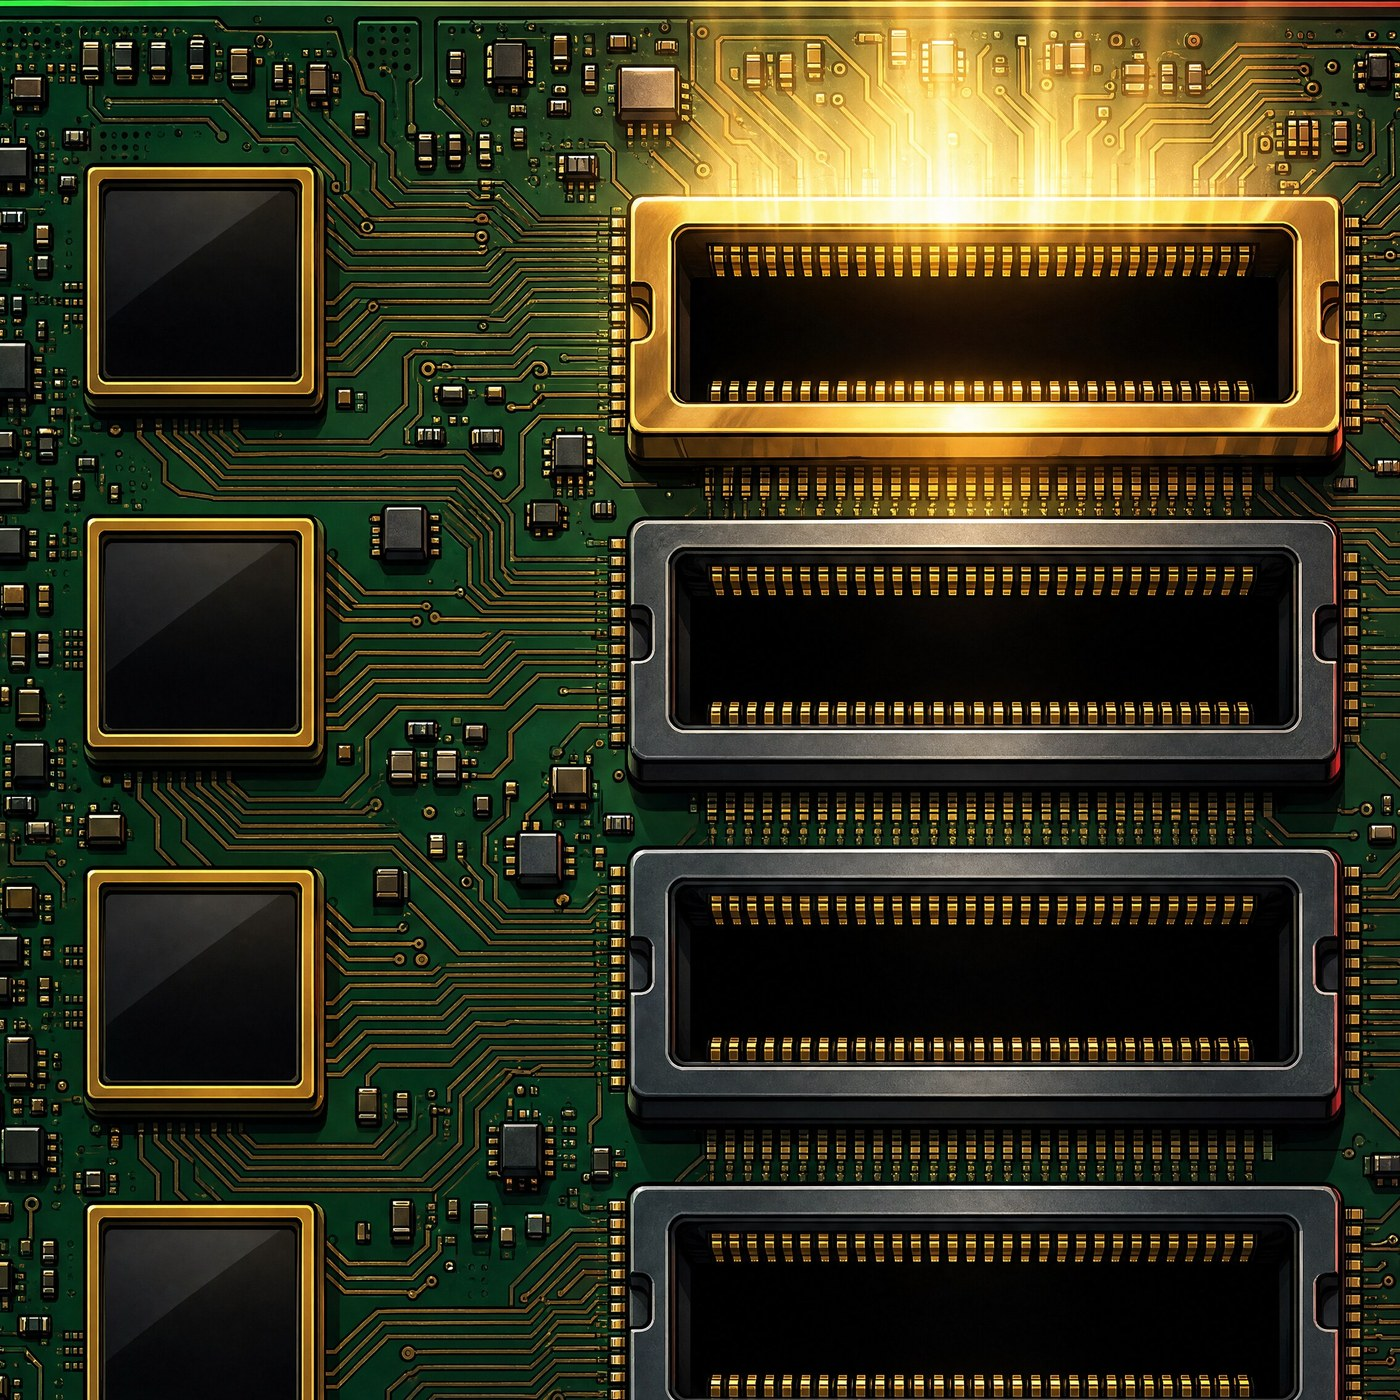
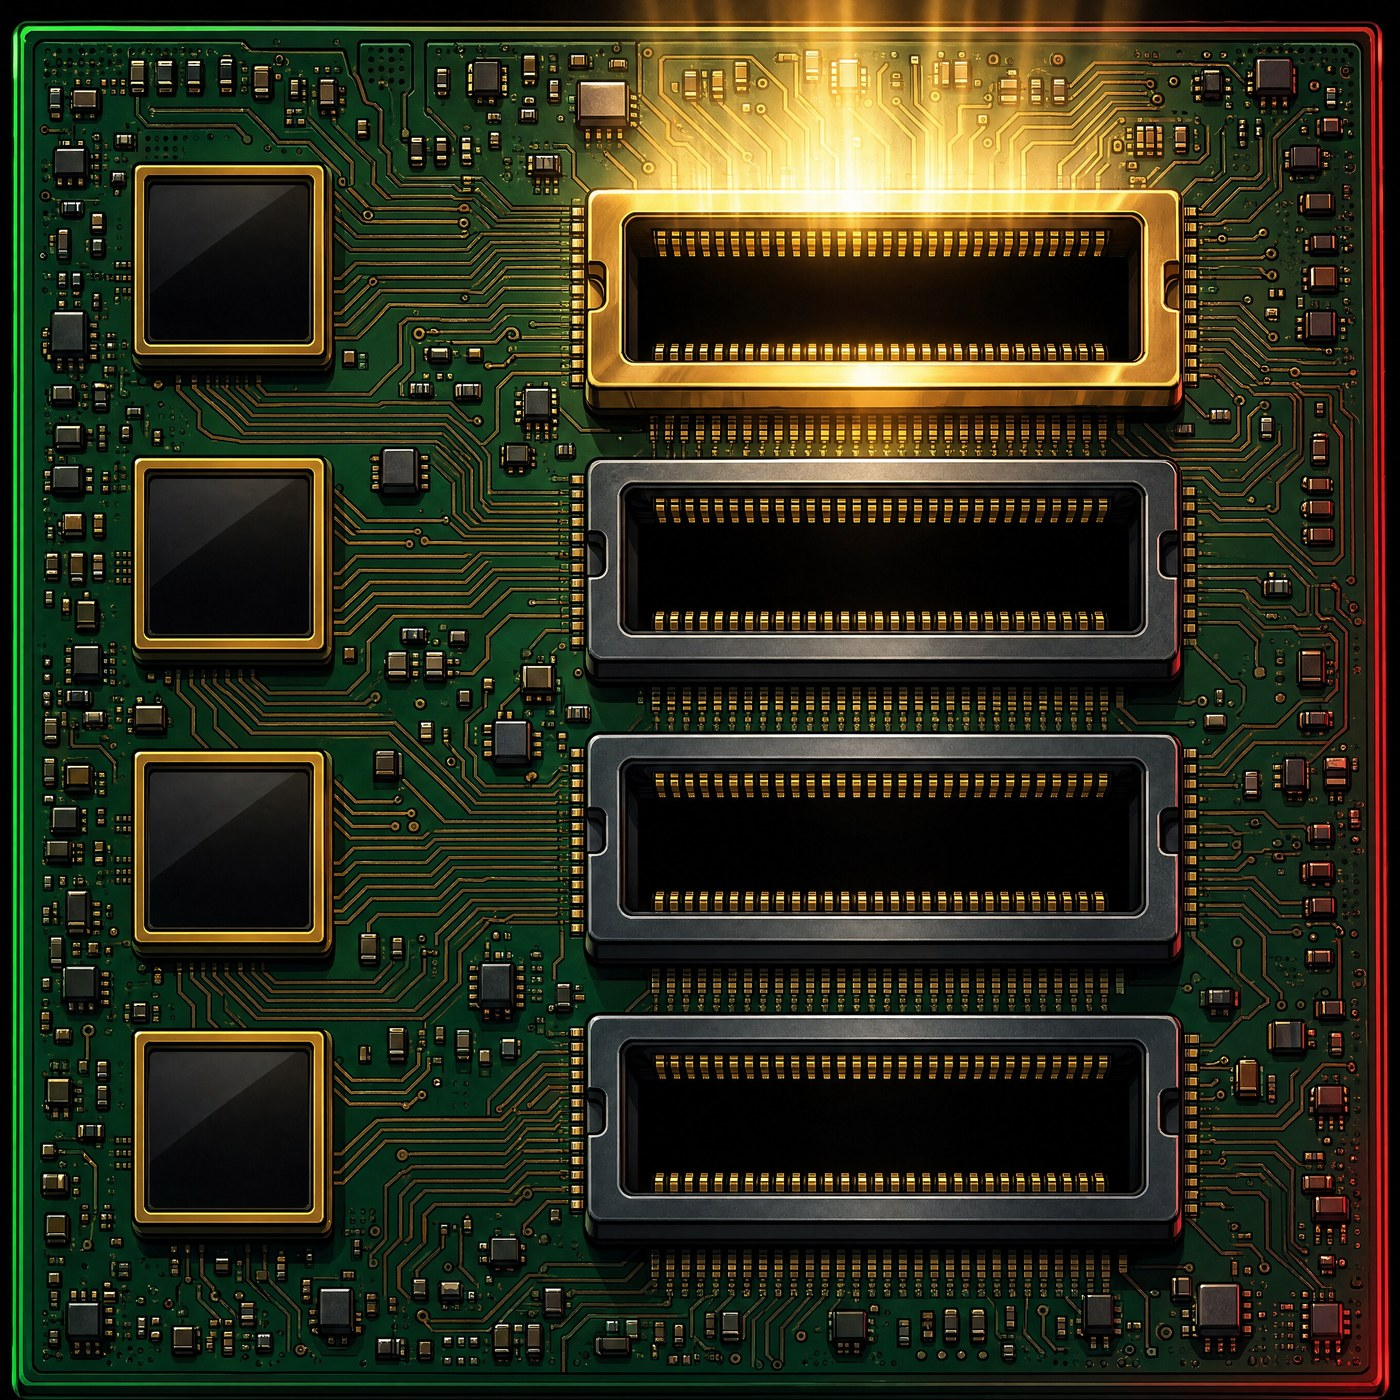
H28: helpers' work in progress
Claude-Session: https://claude.ai/code/session_01KWvAje4hnkBCpPe6R47PoY

diff --git a/ez/tools/concepts/worlds/comic/story/h/chain/_ch.js b/ez/tools/concepts/worlds/comic/story/h/chain/_ch.js
@@ -1,6 +1,7 @@
 /* Round H28 · chain: "Every round so far" as a blockchain (mockups over the built v46-live-x2plus.html).
    The story chain of the page: the models live in chips (Meet the models) -> the record is a ledger -> a chain of blocks, one block per round.
-   window.__CH = 'A' the hash chain (blocks on a board, joined by gold links, the chain snakes so every link is a short one)
+   window.__CH = 'E' A's chain with D's open block on top (the two parts combined)
+                 'A' the hash chain (blocks on a board, joined by gold links, the chain snakes so every link is a short one)
                  'B' the block explorer (newest first, the way crypto people already read a chain: height, contents, hash)
                  'C' the bus (one gold line down the page; every block hangs on it, the hash it hands to the next is printed on the line)
                  'D' the open block (the stack grows: block 81 is already open on top and already points at block 80; sealed blocks below)
@@ -56,7 +57,7 @@ const ht=n=>`<span class="cz-ht"><i>Block</i><b>${n}</b></span>`;
 function A_it(r,hero){return `<span class="cz-blk cza-blk"><span class="cza-bar">${ht(r.n)}${hx(HASH[r.n])}</span>${pic(hero?big(r):tile(r.n))}
   <span class="cz-tx">${line1(r,true)}${winner(r)}${hero?`<span class="cza-prev"><i>Prev</i>${hx(PREV[r.n],'cz-hx-p')}<i class="cza-pt">= block ${r.n-1}</i></span>`:''}</span></span>`}
 /* ================= B · the block explorer ================= */
-function B_hero(r){return `<span class="cz-blk czb-hero"><span class="czb-hd"><span class="czb-lab"><i class="czb-dot"></i>Latest block</span><span class="czb-when">Sealed<span class="czb-atc"> at the close</span> · ${esc(md(r.resolves))}</span></span>
+function B_hero(r){return `<span class="cz-blk czb-hero"><span class="czb-hd"><span class="czb-lab"><i class="czb-dot"></i>Latest block</span><span class="czb-when">Graded<span class="czb-atc"> at the close</span> · ${esc(md(r.resolves))}</span></span>
   <span class="czb-body">${pic(big(r),'czb-pic')}<span class="cz-tx"><span class="czb-big">${ht(r.n)}</span>${line1(r,true)}${winner(r)}
   <span class="czb-kv"><i>Hash</i><code class="cz-hx czb-full"><span>0x${HASH[r.n].slice(0,32)}</span><span>${HASH[r.n].slice(32)}</span></code></span>
   <span class="czb-kv"><i>Prev</i>${hx(PREV[r.n],'cz-hx-p')}<em class="czb-to">block ${r.n-1} ↓</em></span></span></span></span>`}
@@ -65,22 +66,22 @@ function B_it(r){return `<span class="cz-blk czb-row"><span class="czb-n">${r.n}
 function C_it(r,hero){return `<span class="cz-blk czc-blk">${pic(hero?big(r):tile(r.n),'czc-pic')}<span class="cz-tx"><span class="czc-top">${ht(r.n)}<span class="czc-d">${esc(md(r.resolves))}</span></span>${line1(r,true)}${winner(r)}${hero?`<span class="czc-hh"><i>Hash</i>${hx(HASH[r.n])}</span>`:''}</span></span>`}
 /* ================= D · the open block on top of the stack ================= */
 function D_open(){if(!OPEN)return '';const lg=logo(OPEN.ticker);
-  return `<div class="czd-open" aria-label="Block ${OPEN.n} is open: round ${esc(OPEN.n)}, ${esc(OPEN.co)}. Calls due ${esc(md(OPEN.called))}, sealed at the close${OPEN.resolves?' on '+esc(md(OPEN.resolves)):''}. It already points at block ${HERO.n}."><span class="czd-ob">
+  return `<div class="czd-open" aria-label="Block ${OPEN.n} is open: round ${esc(OPEN.n)}, ${esc(OPEN.co)}. Calls due ${esc(md(OPEN.called))}, graded at the close${OPEN.resolves?' on '+esc(md(OPEN.resolves)):''}. It already points at block ${HERO.n}."><span class="czd-ob">
   <span class="czd-obar">${ht(OPEN.n)}<span class="czd-state"><i class="czd-led"></i>Open</span></span>
-  <span class="czd-obody">${lg}<span class="czd-oco"><b>${esc(OPEN.co)}</b><span>Calls due ${esc(md(OPEN.called))} · sealed at the close${OPEN.resolves?' '+esc(md(OPEN.resolves)):''}</span></span>
-  <span class="czd-slots">${ORDER.map(m=>`<span class="czd-slot">${mark(m)}<b>?</b></span>`).join('')}</span></span>
+  <span class="czd-obody">${lg}<span class="czd-oco"><b>${esc(OPEN.co)}</b><span>${OPEN.calls&&OPEN.calls.length?'Calls in':'Calls due '+esc(md(OPEN.called))} · graded at the close${OPEN.resolves?' '+esc(md(OPEN.resolves)):''}</span></span>
+  <span class="czd-slots">${ORDER.map(m=>{const c=(OPEN.calls||[]).find(c=>c[0]===m);return `<span class="czd-slot${c?' czd-in':''}">${mark(m)}<b class="${c?(/^UP/i.test(c[1])?'cz-pu':'cz-pd'):''}">${c?(/^UP/i.test(c[1])?'Long':'Short'):'?'}</b></span>`}).join('')}</span></span>
   <span class="czd-oprev"><i>Prev</i>${hx(HASH[HERO.n],'cz-hx-p')}<em>already points at block ${HERO.n}</em></span></span></div>`}
 function D_it(r,hero){return `<span class="cz-blk czd-blk${hero?' czd-hero':''}">${pic(hero?big(r):tile(r.n),'czd-pic')}<span class="cz-tx">${line1(r,true)}${winner(r)}</span>
   <span class="czd-edge">${ht(r.n)}<code class="cz-hx">${HASH[r.n].slice(0,16)}<span class="czd-xx">${HASH[r.n].slice(16,40)}</span>…</code></span></span>`}
 
 const link=(r,hero,body)=>`<a class="${hero?'cz-hero':'cz-it'}" href="#/round/${r.n}" data-n="${r.n}" aria-label="${esc(aria(r))}">${body}</a>`;
-const ITEM={A:(r,h)=>A_it(r,h),B:(r,h)=>h?B_hero(r):B_it(r),C:(r,h)=>C_it(r,h),D:(r,h)=>D_it(r,h)}[TK];
+const ITEM={A:(r,h)=>A_it(r,h),E:(r,h)=>A_it(r,h),B:(r,h)=>h?B_hero(r):B_it(r),C:(r,h)=>C_it(r,h),D:(r,h)=>D_it(r,h)}[TK];
 const FIRST=6;let shown=FIRST;
 const wide=()=>innerWidth>=1000;
-const PAGE=()=>!wide()?8:({A:10,B:8,C:8,D:10}[TK]);
+const PAGE=()=>!wide()?8:({A:10,B:8,C:8,D:10,E:10}[TK]);
 const root=D.createElement('div');root.className='cz cz-'+TK;
 const CAP={A:'Every round is a block. Each block carries the hash of the one before.',B:'Newest first. Each block carries the hash of the one before.',
-  C:'One chain, newest on top. The hash on the line is what each block hands to the next.',D:'Each block carries the hash of the one before. The next one is already open.'}[TK];
+  C:'One chain, newest on top. The hash on the line is what each block hands to the next.',E:'Each block carries the hash of the one before. The next one is already open.',D:'Each block carries the hash of the one before. The next one is already open.'}[TK];
 function more(){const left=REST.length-shown;if(left<=0)return `<p class="cz-all">Back to the genesis block · round 1</p>`;const k=Math.min(PAGE(),left);
   return `<button class="cz-more" type="button" aria-label="Show ${k} more blocks"><b>Show ${k} more</b><i>${left} older blocks · down to block 1</i></button>`}
 function grid(){const items=[link(HERO,true,ITEM(HERO,true)),...REST.slice(0,shown).map(r=>link(r,false,ITEM(r,false)))];
@@ -92,16 +93,16 @@ function grid(){const items=[link(HERO,true,ITEM(HERO,true)),...REST.slice(0,sho
     const bands=[items.slice(0,7)];for(let i=7;i<items.length;i+=8)bands.push(items.slice(i,i+8));
     return bands.map((b,k)=>`<div class="czc-g czc-band${k?' czc-b8':''}"><i class="czc-bus" aria-hidden="true"></i>${b.join('')}</div>`).join('')+more()}
   if(TK==='D'){const x=items.slice(7);return `${D_open()}<div class="czd-g czd-top">${items[0]}</div><div class="czd-g czd-rest">${items.slice(1,7).join('')}</div>${x.length?`<div class="czd-g czd-x">${x.join('')}</div>`:''}${more()}`}
-  return `<div class="cza-g">${items.join('')}${more()}<svg class="cza-links" aria-hidden="true"></svg></div>`}
+  return `${TK==='E'?D_open():''}<div class="cza-g">${items.join('')}${more()}<svg class="cza-links" aria-hidden="true"></svg></div>`}
 function render(){root.innerHTML=`<div class="cz-in"><header class="cz-hd"><h2 class="cz-h2"><span class="cz-hw">Every round so far</span></h2>
-  <p class="cz-cap">${esc(CAP)}</p><p class="cz-meta"><span><b>${G.length}</b> blocks sealed</span><span><b>${FUT.length}</b> to come</span></p></header>${grid()}</div>`;
+  <p class="cz-cap">${esc(CAP)}</p><p class="cz-meta"><span><b>${G.length}</b> blocks</span><span><b>${FUT.length}</b> to come</span></p></header>${grid()}</div>`;
   root.querySelector('.cz-more')?.addEventListener('click',()=>{shown+=PAGE();render()});
   place();fit();links();bus();
   let t;root.querySelectorAll('img').forEach(i=>{if(!i.complete)i.addEventListener('load',()=>{clearTimeout(t);t=setTimeout(()=>{fit();links();bus()},120)},{once:true})});setTimeout(()=>{fit();links();bus()},400)}
 /* A: the chain snakes, so every block sits next to the one before it and every link is short.
    Phone (2 columns): the hero across, then rows of two, alternating direction. Desktop (5): the hero 2x2 on the left, the six run down and up
    columns 3, 4, 5 (ending bottom right), then full rows of five alternate direction. */
-function place(){if(TK!=='A')return;const g=root.querySelector('.cza-g'),its=[...g.querySelectorAll('.cz-it')],more=g.querySelector('.cz-more,.cz-all');
+function place(){if(!/[AE]/.test(TK))return;const g=root.querySelector('.cza-g'),its=[...g.querySelectorAll('.cz-it')],more=g.querySelector('.cz-more,.cz-all');
   const cols=getComputedStyle(g).gridTemplateColumns.split(' ').length;let last=[1,1];
   its.forEach((a,i)=>{let r,c;
     if(cols>=5){if(i<6){const col=3+Math.floor(i/2),down=Math.floor(i/2)%2===0;r=1+((i%2)===(down?0:1)?0:1);c=col}
@@ -112,7 +113,7 @@ function place(){if(TK!=='A')return;const g=root.querySelector('.cza-g'),its=[..
     a.style.gridRow=r;a.style.gridColumn=c;last=[r,c]});
   if(more){const r=last[0]+1;more.style.gridRow=r;more.style.gridColumn='1/-1'}}
 /* the links: one gold chain link in every gap between a block and the one before it, oriented along the gap */
-function links(){if(TK!=='A')return;const g=root.querySelector('.cza-g'),sv=g&&g.querySelector('.cza-links');if(!sv)return;const gr=g.getBoundingClientRect();
+function links(){if(!/[AE]/.test(TK))return;const g=root.querySelector('.cza-g'),sv=g&&g.querySelector('.cza-links');if(!sv)return;const gr=g.getBoundingClientRect();
   const seq=[g.querySelector('.cz-hero'),...g.querySelectorAll('.cz-it')];let s='';
   for(let i=0;i<seq.length-1;i++){const a=seq[i].getBoundingClientRect(),b=seq[i+1].getBoundingClientRect();let x,y,rot;
     const ov=(p,q,r,t)=>Math.max(0,Math.min(q,t)-Math.max(p,r));

diff --git a/ez/tools/concepts/worlds/comic/story/h/round3/_r3.js b/ez/tools/concepts/worlds/comic/story/h/round3/_r3.js
@@ -80,7 +80,7 @@ function ledger(){const L=(x,y)=>Math.hypot(x[0]-y[0],x[1]-y[1]),bw=(L(LQ[0],LQ[
 
 /* ---------- 4 BOARD: full frontal, every chip in its socket, #1 seated in the gold one; the numbers withheld (lit dashes) as live ---------- */
 const GEO={"r":{"ar":[2520,3300],"img":"board-r.jpg","chip":[[47.619,9.981,39.683,12.25],[47.619,32.121,39.683,12.25],[47.619,54.261,39.683,12.25],[47.619,76.402,39.683,12.25]],"win":[[7.94,11.205,13.43,10.379],[7.94,33.346,13.43,10.379],[7.94,55.486,13.43,10.379],[7.94,77.626,13.43,10.379]]},
- "f":{"ar":[1,1],"img":"board-f.jpg","chip":[[50.264,13.656,39.648,16.035],[50.264,37.489,39.648,16.035],[50.396,61.189,39.648,16.035],[50.352,85.154,39.648,16.035]],"win":[[7.225,12.775,14.097,14.273],[7.225,37.974,13.921,14.273],[7.225,62.996,14.097,14.273],[7.225,86.96,14.097,14.449]]}};
+ "f":{"ar":[1,1],"img":"board-f.jpg","chip":[[46.36,13.235,33.088,13.382],[46.36,33.125,33.088,13.382],[46.471,52.904,33.088,13.382],[46.434,72.904,33.088,13.382]],"win":[[10.441,12.5,11.765,11.912],[10.441,33.529,11.618,11.912],[10.441,54.412,11.765,11.912],[10.441,74.412,11.765,12.059]]}};
 /* chips8 take c's geometry, in chip units (as x2p_top's B6G) */
 const B6G={s:[3760,1520],no:[2385,251,2604,421],d7:[1120,479,2020,759],lr:[2086,478,2604,765],se:[1121,890,2604,1087],core:[2766,305,3612,1179]};
 const pc=(v,t)=>(v/t*100).toFixed(4)+'%',at=r=>`left:${pc(r[0],B6G.s[0])};top:${pc(r[1],B6G.s[1])};width:${pc(r[2]-r[0],B6G.s[0])};height:${pc(r[3]-r[1],B6G.s[1])}`;

diff --git a/ez/tools/concepts/worlds/comic/story/h/sol9/_s9.css b/ez/tools/concepts/worlds/comic/story/h/sol9/_s9.css
@@ -1,6 +1,6 @@
 /* H28 sol9, shared (mockup CSS over v46-live-x2plus.html; each world adds its own a.css .. d.css) */
 .p5-s9 .p5-bleed{display:block!important}
-.s9 .p5-h{margin-bottom:6px!important}
+.p5-s9 .s9>.p5-h{margin:0 0 10px!important;line-height:1.02!important}
 .s9-b{position:relative;margin:0 0 30px}
 .s9-b:last-of-type{margin-bottom:0}
 .s9-w{padding:0 16px 10px}
@@ -35,9 +35,10 @@
  .s9-w{padding:0 4px 12px;display:flex;align-items:baseline;gap:18px}
  .s9-k{font-size:21px;margin:0;flex:none}
  .s9-ln{font-size:16px}
- .s9-pic{display:grid;grid-template-columns:minmax(0,1fr) 330px;align-items:center}
+ .s9-pic{display:grid;grid-template-columns:minmax(0,1fr) 410px;align-items:center}
  .s9-rows{padding:0 0 0 26px}
- .s9-r{grid-template-columns:24px minmax(0,1fr) auto 56px 98px;gap:0 10px;padding:8px 0}.s9-rows-p .s9-r{grid-template-columns:24px minmax(0,1fr) auto 56px}
+ .s9-r{grid-template-columns:24px 92px minmax(0,1fr) 56px 112px;gap:0 10px;padding:8px 0}.s9-rows-p .s9-r{grid-template-columns:24px 92px minmax(0,1fr) 56px}
  .s9-nm{font-size:20px}.s9-big{font-size:26px}.s9-wl{font-size:16px}.s9-r1 .s9-nm{font-size:24px}.s9-r1 .s9-big{font-size:33px}.s9-tg{font-size:13.5px}
  .s9-b{margin-bottom:44px}
 }
+@container (min-width:860px){.p5-s9 .s9>.p5-h{margin-bottom:20px!important}}

diff --git a/ez/tools/concepts/worlds/comic/story/h/chain/_ch.css b/ez/tools/concepts/worlds/comic/story/h/chain/_ch.css
@@ -229,3 +229,11 @@ html body #record .cz .cz-hw{display:inline-block;white-space:nowrap;color:var(-
   .czd-x{grid-column:1/-1;grid-row:4;grid-template-columns:repeat(5,minmax(0,1fr));gap:0 18px;margin-top:4px}
   .cz-D>.cz-in>.cz-more,.cz-D>.cz-in>.cz-all{grid-row:5}
 }
+
+/* the open block's slots once the calls are in; E: the open block above A's chain, hung on block 80 */
+.czd-slot.czd-in{border-style:solid;border-color:rgba(255,210,31,.4);color:var(--cr)}
+.czd-slot b{font:400 16px/1 Anton,sans-serif;letter-spacing:.03em;text-transform:uppercase}
+.cz-E .czd-open{padding-bottom:24px}
+@media (min-width:1000px){.cz-E .czd-ob{display:grid;grid-template-columns:auto auto minmax(0,1fr) minmax(280px,1.1fr) auto;align-items:center;gap:10px 22px;padding:10px 16px}
+  .cz-E .czd-obody{display:contents}.cz-E .czd-slots{grid-column:auto;min-width:300px}.cz-E .czd-obar{gap:16px}.cz-E .czd-oprev{flex-direction:column;align-items:flex-end;gap:4px}
+  .cz-E .czd-open::before{left:18%}.cz-E .czd-open::after{left:30%;right:auto}}

diff --git a/ez/tools/concepts/worlds/comic/story/h/meet11/m11.js b/ez/tools/concepts/worlds/comic/story/h/meet11/m11.js
@@ -55,7 +55,7 @@ let CAP=.735;const capR=()=>{cv.font='100px Anton';const m=cv.measureText('H');i
 const nameLog={};
 function names(){capR();ones.forEach(o=>{const m=o.dataset.m,nm=o.querySelector('.m11-nm'),R=nm.getBoundingClientRect();if(!R.width)return;
   const w=R.width,h=R.height,pad=h*.3;let fs=h*.56/CAP;/* the name's cap = 56% of its window's height */
-  const N=NM(m),V=VER(m).toUpperCase();let vs=fs*.34;const gap=fs*.16;
+  const N=NM(m),V=VER(m).toUpperCase();let vs=fs*.42;const gap=fs*.16;
   let tot=tw(N,fs)+gap+tw(V,vs,"'Barlow Condensed'");const max=w-pad*2;if(tot>max){const k=max/tot;fs*=k;vs*=k}
   const y=h/2+fs*CAP/2,x=pad,nw=tw(N,fs);
   const sv=nm.querySelector('svg');sv.setAttribute('viewBox',`0 0 ${w} ${h}`);

diff --git a/ez/tools/concepts/worlds/comic/story/h/chain/board.py b/ez/tools/concepts/worlds/comic/story/h/chain/board.py
@@ -6,6 +6,7 @@ F=ImageFont.truetype('/usr/share/fonts/truetype/dejavu/DejaVuSans-Bold.ttf',26);
 NAME={'now':('Today (live)','rounds6 B: the season wafer, then 8 dies'),
  'A':('A · the hash chain','blocks on the board, a gold link in every gap; the chain snakes'),'B':('B · the block explorer','the latest block in full, then rows: height, round, hash'),
  'C':('C · the bus','one gold line; every block hangs on it; the hash it hands up is printed on the line'),'D':('D · the open block','block 81 already open on top, pointing at 80; hashes engraved on each slab'),
+ 'E':('E · A + the open block','A\'s chain with D\'s open block hung on block 80 (my pick)'),'E+':('E · after Show more','desktop 10 (two rows), phones 8'),
  'A+':('A · after Show more','desktop 10 (two rows), phones 8'),'B+':('B · after Show more','desktop 8 (rows of two), phones 8'),'C+':('C · after Show more','desktop: a second bus of 8'),'D+':('D · after Show more','desktop 10 (two rows of five), phones 8')}
 def save(B,out):
   p=OUT+out;B.save(p,optimize=True)
@@ -25,11 +26,11 @@ def board(ids,W,k,out,title,cols=None):
       x=g+c*(cw+g);n=NAME[ids[j]];d.text((x,y),n[0],font=F,fill='#f8f0d9');d.text((x,y+36),n[1],font=f2,fill='#c9bfa6');B.paste(ims[j],(x,y+hd-22))
     y+=rh[r]+hd+g
   save(B,out)
-board(['A','B','C','D'],390,.62,'x2p-h28-chain-390.png','chain · 390px · the latest block, six, Show 8 more · every hash is SHA-256 of the round + the hash before it')
-board(['A','B','C','D'],320,.75,'x2p-h28-chain-320.png','chain · 320px (ties keep the marks, names in the screen-reader label; small blocks drop the company logo)')
-board(['A','B','C','D'],1280,.5,'x2p-h28-chain-1280.png','chain · 1280px · no dead space beside or under the latest block',cols=2)
-board(['A+','B+','C+','D+'],1280,.42,'x2p-h28-chain-1280-more.png','chain · 1280px after one tap on Show more',cols=2)
-board(['A+','B+','C+','D+'],390,.5,'x2p-h28-chain-390-more.png','chain · 390px after one tap: eight more')
+board(['E','A','B','C','D'],390,.55,'x2p-h28-chain-390.png','chain · 390px · the latest block, six, Show 8 more · every hash is SHA-256 of the round + the hash before it')
+board(['E','A','B','C','D'],320,.7,'x2p-h28-chain-320.png','chain · 320px (ties keep the marks, names in the screen-reader label; small blocks drop the company logo)')
+board(['E','A','B','C','D'],1280,.5,'x2p-h28-chain-1280.png','chain · 1280px · no dead space beside or under the latest block',cols=2)
+board(['E+','B+','C+','D+'],1280,.42,'x2p-h28-chain-1280-more.png','chain · 1280px after one tap on Show more',cols=2)
+board(['E+','B+','C+','D+'],390,.5,'x2p-h28-chain-390-more.png','chain · 390px after one tap: eight more')
 rows=[]
 for t in 'ABCD':
   rows.append([Image.open(f'{S}/tile-{t}-{n}.png') for n in ('78','79','none')])

diff --git a/ez/tools/concepts/worlds/comic/story/h/round3/export.py b/ez/tools/concepts/worlds/comic/story/h/round3/export.py
@@ -10,7 +10,7 @@ subprocess.run(['/usr/bin/python3','warp.py',str(X0),str(Y0),str(X1),str(Y1),str
 pc=lambda x,y,w,h:[round((x-X0)/(X1-X0)*100,3),round((y-Y0)/(Y1-Y0)*100,3),round(w/(X1-X0)*100,3),round(h/(Y1-Y0)*100,3)]
 G['r']={'ar':[X1-X0,Y1-Y0],'img':'board-r.jpg','chip':[pc(0,(i-1)*P,1000,Hc) for i in range(4)],'win':[pc(wx0,(i-1)*P+wy0,wx1-wx0,wh) for i in range(4)]}
 # F: E2 master crop [200,110,2270,2270]
-S=Image.open('../board6/img/e2c.jpg').convert('RGB');cx,cy,cw=200,110,2270
+S=Image.open('../board6/img/e2c.jpg').convert('RGB');cx,cy,cw=80,60,2720
 S.crop((cx,cy,cx+cw,cy+cw)).resize((OW,OW),Image.LANCZOS).save('img/board-f.jpg',quality=88)
 cq=[[[1341,961],[2241,961],[2241,1325],[1341,1325]],[[1344,1499],[2244,1499],[2244,1863],[1344,1863]],[[1343,2043],[2243,2043],[2243,2407],[1343,2407]]]
 wq=[[[368,400],[684,404],[680,724],[364,720]],[[364,972],[680,972],[676,1296],[364,1292]],[[368,1540],[684,1544],[680,1864],[364,1864]],[[368,2084],[684,2088],[676,2412],[364,2408]]]
